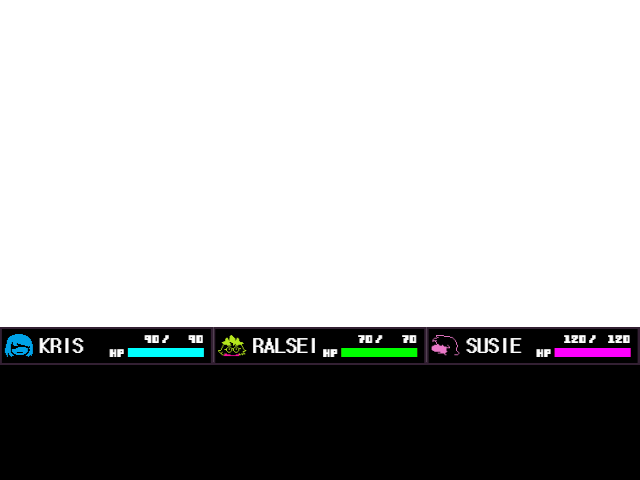
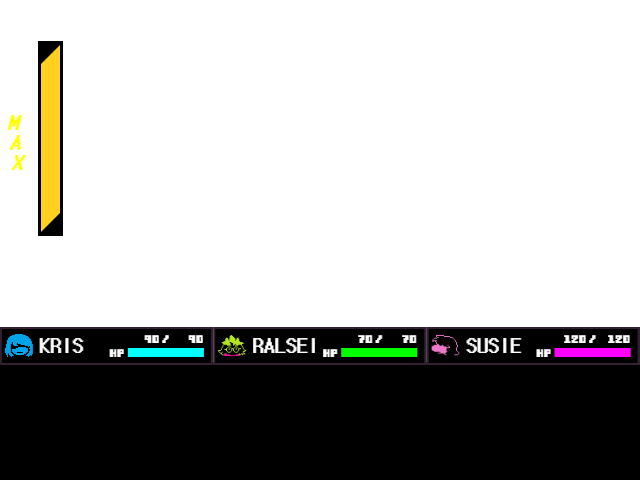
Added a TP bar

Changed region(s): [[0.0, 0.0625, 0.125, 0.5]]

diff --git a/game.js b/game.js
@@ -2,6 +2,10 @@ const gameCanvas = document.querySelector("canvas[data-game]");
 const ctx = gameCanvas.getContext("2d");
 gameCanvas.width = 640;
 gameCanvas.height = 480;
+let team = {
+    members: characters.filter(character => character.constructor.name == "Player").slice(0, 3),
+    tp: 100
+}
 
 function frame(gameCanvas, ctx) {
 
@@ -47,16 +51,69 @@ function frame(gameCanvas, ctx) {
 
     }
 
+    function renderTP(ctx, tp) {
+
+        const x = 41;
+        const y = 45;
+        const width = 19;
+        const height = 187;
+        ctx.fillStyle = colours.black;
+        ctx.fillRect(x - 3, y - 4, width + 6, height + 8);
+        ctx.fillStyle = colours.darkRed;
+        ctx.fill()
+
+        const progressHeight = (Math.max(0, -tp + 100) / 100) * height
+        ctx.fillStyle = colours.orange;
+        if (tp >= 100) ctx.fillStyle = colours.yellow;
+        ctx.fillRect(x, y, width, height);
+
+        ctx.fillStyle = colours.darkRed;
+        ctx.fillRect(x, y, width, progressHeight);
+        // ctx.fill()
+        ctx.beginPath()
+        ctx.moveTo(x, y);
+        ctx.lineTo(x + width, y);
+        ctx.lineTo(x, y + width);
+        ctx.lineTo(x, y);
+        ctx.closePath();
+        ctx.fillStyle = colours.black;
+        ctx.fill()
+        ctx.beginPath()
+        ctx.moveTo(x, y + height);
+        ctx.lineTo(x + width, y + height);
+        ctx.lineTo(x + width, y - width + height);
+        ctx.lineTo(x, y + height);
+        ctx.fill()
+        ctx.closePath();
+
+        ctx.fillStyle = colours.white
+        ctx.font = "italic 16px dotumChePixel";
+        ctx.textAlign = "left"
+        ctx.fillText("T", x - 33, y + 30)
+        ctx.fillText("P", x - 33, y + 50)
+        if (tp < 100) {
+            ctx.fillText(tp, x - 33, y + 70);
+            ctx.fillText("%", x - 33, y + 90);
+
+        } else {
+            ctx.fillStyle = colours.brightYellow;
+            ctx.fillText("M", x - 33, y + 70);
+            ctx.fillText("A", x - 31, y + 90);
+            ctx.fillText("X", x - 29, y + 110);
+        }
+
+    }
+
     ctx.fillStyle = colours.black;
     ctx.fillRect(0, 365, gameCanvas.width, 115);
     ctx.fillStyle = colours.borderPurple;
     ctx.fillRect(0, 362, gameCanvas.width, 3);
     // Do textbox stuff
-    team = characters.filter(character => character.constructor.name == "Player").slice(0, 3)
-    for (let i = 0; i < team.length; i++) {
+    for (let i = 0; i < team.members.length; i++) {
         active = i == 0;
-        renderPlayer(active, i, team, ctx)
+        renderPlayer(active, i, team.members, ctx)
     }
+    renderTP(ctx, team.tp);
 }
 
 

diff --git a/presets.js b/presets.js
@@ -2,5 +2,8 @@ const colours = {
     black: "#000",
     white: "#FFF",
     borderPurple: "#332033",
-    darkRed: "#800000"
+    darkRed: "#800000",
+    orange: "#FFA040",
+    brightYellow: "#FFFF00",
+    yellow: "#FFD020"
 }

diff --git a/style.css b/style.css
@@ -1,4 +1,5 @@
 .game {
     background: hsl(300, 100%, 50%);
+    /* background: hsl(300, 100%, 0%); */
     /* width: 50%; */
 }
